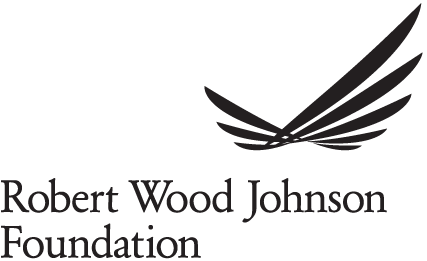
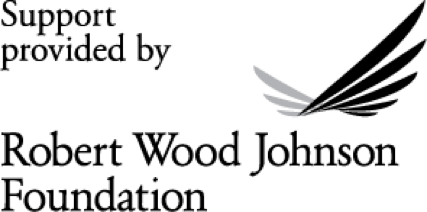
RWJF changes

Changed region(s): [[0.0, 0.5943, 0.9438, 1.0], [0.4567, 0.0, 1.0, 0.5943], [0.0, 0.0, 0.3958, 0.3396]]

diff --git a/app/components/Landing/Landing.js b/app/components/Landing/Landing.js
@@ -52,7 +52,7 @@ const Landing = function() {
 
 
 				<h3> Who supports this project? </h3>
-				<p> Funding from this project comes from the Robert W Johnson foundation and the MIT Media Lab. </p>
+				<p> This project is supported by a grant from the Robert Wood Johnson Foundation, with additional support from the MIT Media Lab.</p>
 			</div>
 		</div>
 	);
